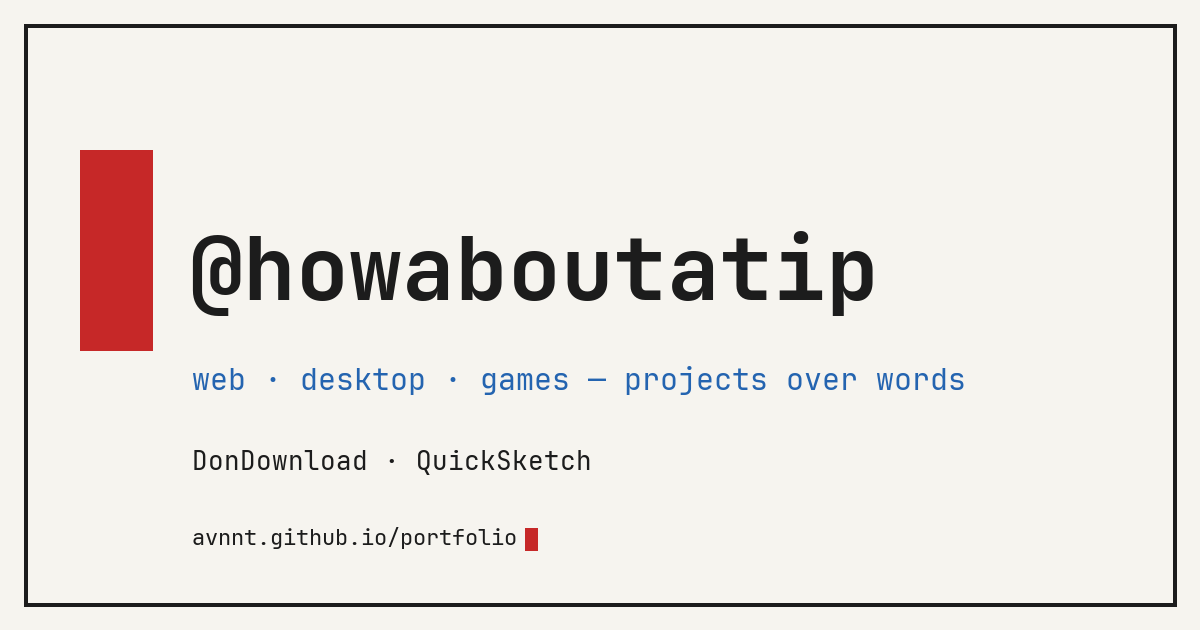
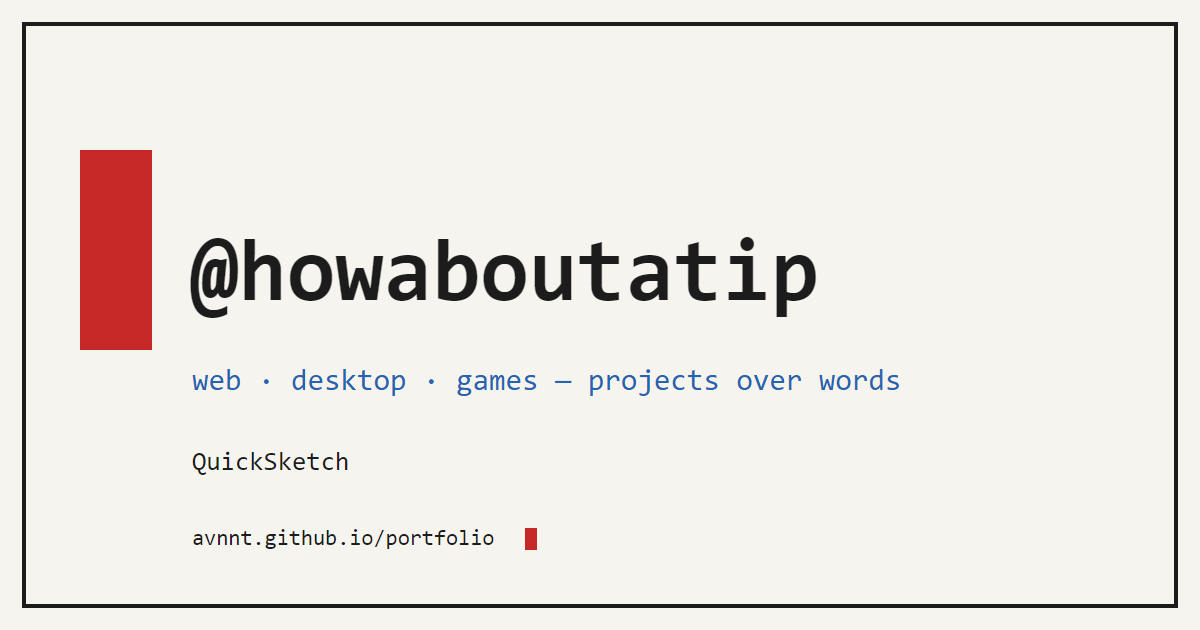
Remove DonDownload from portfolio projects
DonDownload repo is private now, so drop its card, screenshot, and mentions from the page, OG card source, and README.

diff --git a/index.html b/index.html
@@ -4,9 +4,9 @@
 <meta charset="UTF-8">
 <meta name="viewport" content="width=device-width, initial-scale=1.0">
 <meta name="color-scheme" content="light dark">
-<meta name="description" content="Portfolio of @howaboutatip (AVN) — desktop apps and tools. DonDownload, a Windows download manager, and QuickSketch, an offline reference board and gesture drawing trainer.">
+<meta name="description" content="Portfolio of @howaboutatip (AVN) — desktop apps and tools. QuickSketch, an offline reference board and gesture drawing trainer.">
 <meta property="og:title" content="@howaboutatip · Portfolio">
-<meta property="og:description" content="Desktop apps and tools by @howaboutatip (AVN) — DonDownload (Windows download manager) and QuickSketch (offline reference board & gesture drawing trainer). Projects over words.">
+<meta property="og:description" content="Desktop apps and tools by @howaboutatip (AVN) — QuickSketch, an offline reference board & gesture drawing trainer. Projects over words.">
 <meta property="og:type" content="website">
 <meta property="og:url" content="https://avnnt.github.io/portfolio/">
 <meta property="og:image" content="https://avnnt.github.io/portfolio/og-card.png">
@@ -17,7 +17,7 @@
 <meta property="og:site_name" content="@howaboutatip">
 <meta name="twitter:card" content="summary_large_image">
 <meta name="twitter:title" content="@howaboutatip · Portfolio">
-<meta name="twitter:description" content="Desktop apps and tools by @howaboutatip (AVN) — DonDownload (Windows download manager) and QuickSketch (offline reference board & gesture drawing trainer). Projects over words.">
+<meta name="twitter:description" content="Desktop apps and tools by @howaboutatip (AVN) — QuickSketch, an offline reference board & gesture drawing trainer. Projects over words.">
 <meta name="twitter:image" content="https://avnnt.github.io/portfolio/og-card.png">
 <meta name="twitter:image:alt" content="@howaboutatip — desktop apps and tools, projects over words">
 <meta name="theme-color" content="#F6F4EF" media="(prefers-color-scheme: light)">
@@ -205,14 +205,6 @@
   <section aria-labelledby="projects-title">
     <h2 id="projects-title">Projects</h2>
     <ol class="arena">
-      <li>
-        <a href="https://github.com/AVNNT/dondownload" target="_blank" rel="noopener">
-          <h3>DonDownload</h3>
-          <p>A fast, lightweight download manager for Windows.</p>
-          <p class="small">Electron &middot; React &middot; TypeScript &middot; MIT &middot; v1.3.3</p>
-          <img class="shot" src="assets/dondownload.webp" width="1280" height="800" loading="lazy" decoding="async" alt="Screenshot of the DonDownload main window showing a list of active, queued, and completed downloads with progress bars and speeds">
-        </a>
-      </li>
       <li>
         <a href="https://howaboutavndev.itch.io/quicksketch" target="_blank" rel="noopener">
           <h3>QuickSketch</h3>

diff --git a/README.md b/README.md
@@ -8,7 +8,6 @@ final/
 ├── og-card.png       — Open-Graph-Card 1200×630 (was Social-Plattformen anzeigen)
 ├── og-card.svg       — Design-Quelle der Card (PNG daraus neu exportieren)
 ├── assets/
-│   ├── dondownload.webp
 │   └── quicksketch.webp
 ├── robots.txt
 └── sitemap.xml
@@ -33,9 +32,9 @@ X, Facebook und LinkedIn rendern keine SVG-Vorschaukarten.
 ## Eingetragene echte Daten
 
 - GitHub: `github.com/AVNNT` · X: `x.com/howaboutavndev` · E-Mail: `atipvietnghiem@gmail.com` (als HTML-Entities gegen Scraper)
-- Projekte: **DonDownload** (Screenshot aus dem Repo, 1280×800) und **QuickSketch** (itch.io-Cover, 1920×1080)
-  → beide lokal als WebP in `assets/` (Grund: keine Hotlinks, 528 KB → 37 KB beim Cover)
-- Skills: HTML, CSS, GDScript (Godot 4.7), JavaScript, Linux, Git & GitHub (TS/React/Electron sind DonDownloads Stack, keine Skill-Claims)
+- Projekte: **QuickSketch** (itch.io-Cover, 1920×1080)
+  → lokal als WebP in `assets/` (Grund: keine Hotlinks, 528 KB → 37 KB beim Cover)
+- Skills: HTML, CSS, GDScript (Godot 4.7), JavaScript, Linux, Git & GitHub
 - Dark Mode (🌙/☀, localStorage + prefers-color-scheme), Typewriter-Headline, a11y (Skip-Link, focus-visible, reduced-motion)
 
 ## Anpassungen
